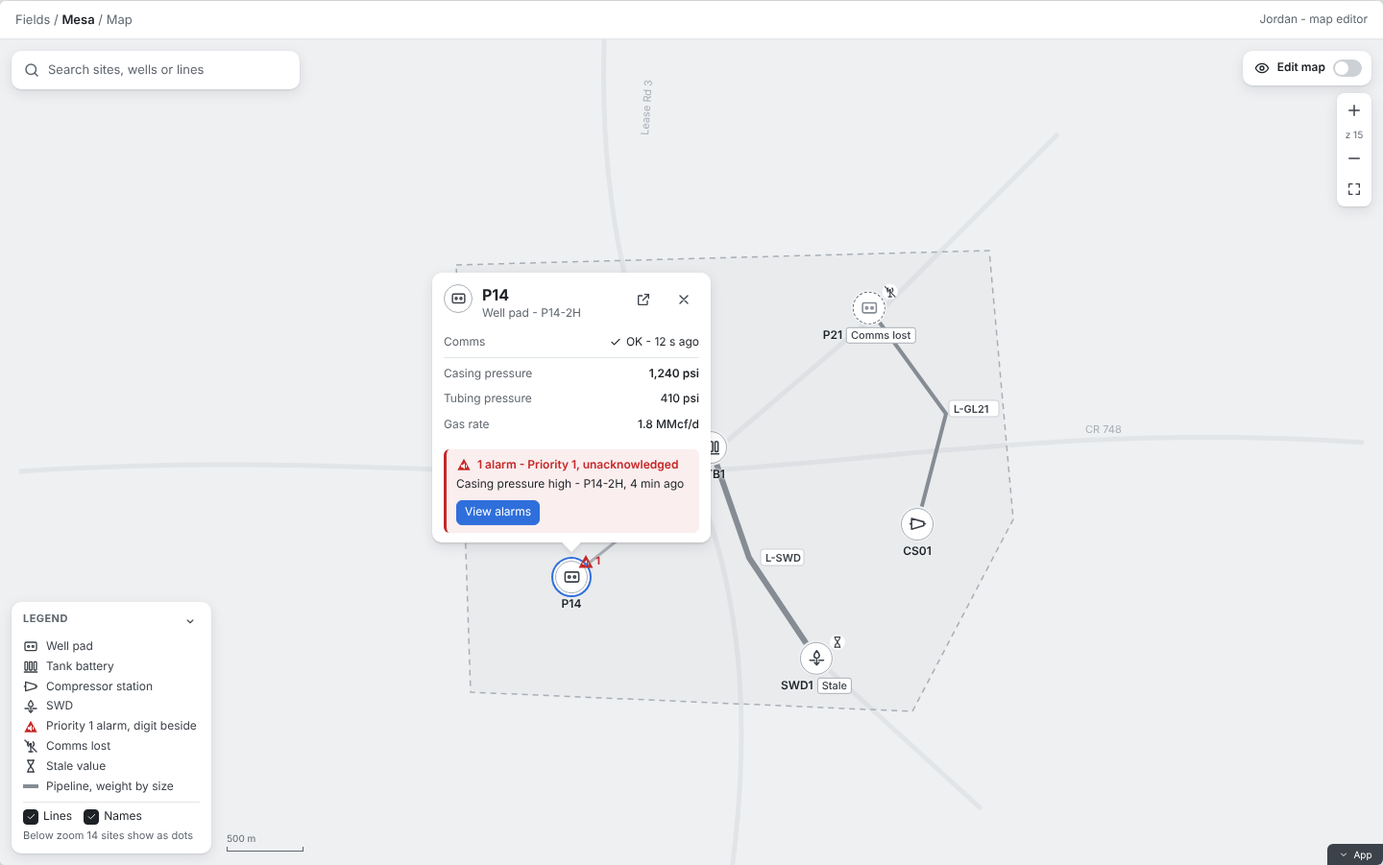
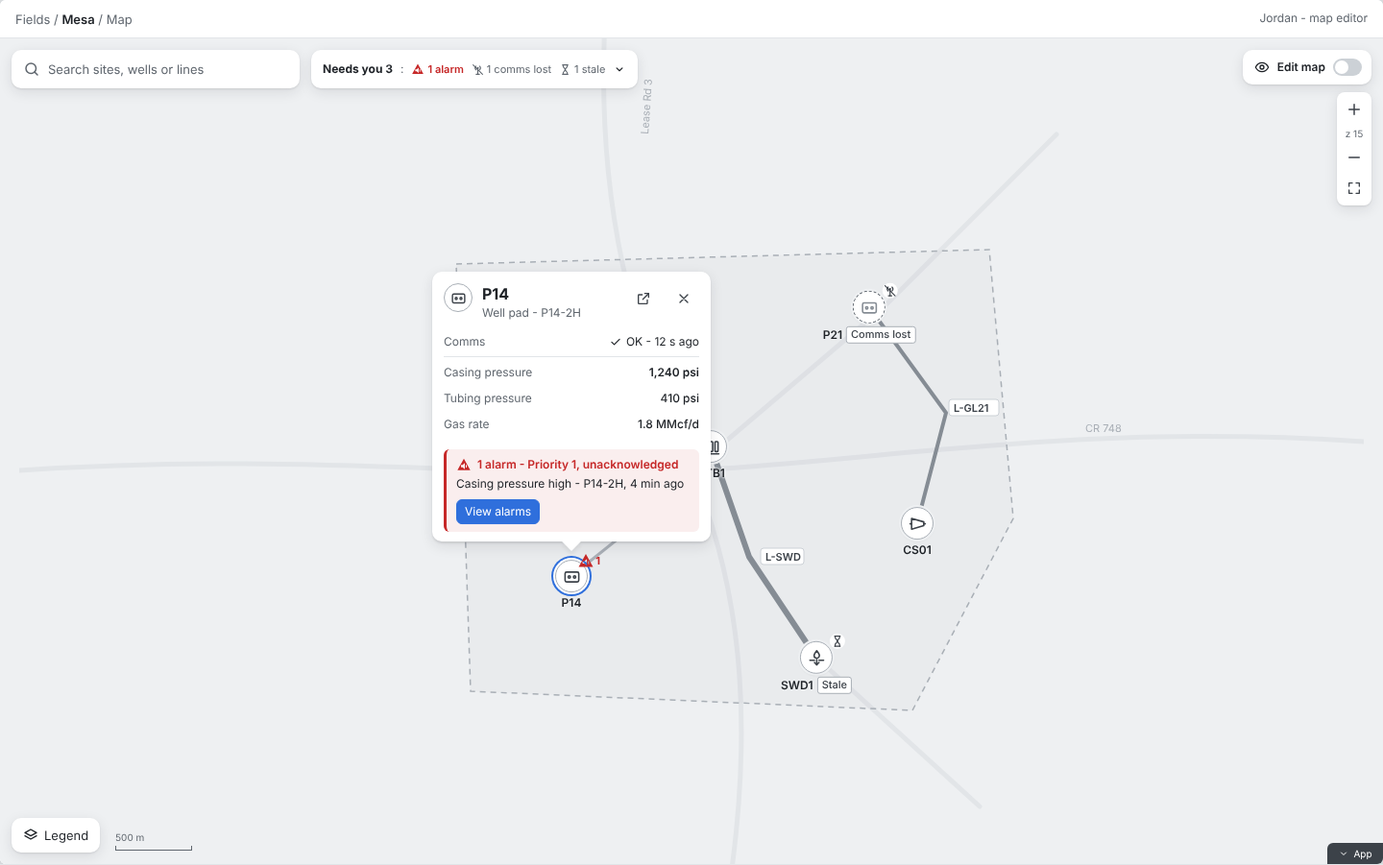
UX workshop: three clickable editor layout directions with notes and screenshots
Claude-Session: https://claude.ai/code/session_01DVAVWyHFvLKQeaRZ7Pw3zR

diff --git a/_bmad-output/initiative-flowmap/ux-map-studio/.working/editor-directions.html b/_bmad-output/initiative-flowmap/ux-map-studio/.working/editor-directions.html
@@ -118,6 +118,12 @@ button{font:inherit;color:inherit;cursor:pointer}
 .grp{padding:8px 8px 4px}
 .grp .gh{display:flex;justify-content:space-between;padding:4px 8px;font-size:11px;font-weight:600;color:var(--neutral-70);text-transform:uppercase;letter-spacing:.04em}
 .row-i{display:flex;align-items:center;gap:10px;width:100%;border:0;background:none;text-align:left;padding:7px 8px;border-radius:6px;color:var(--label)}
+.row-w{display:flex;align-items:center;gap:2px}
+.row-w .row-i{flex:1;min-width:0}
+.cb{width:22px;height:30px;display:flex;align-items:center;justify-content:center;flex:none;cursor:pointer}
+.cb .check{width:14px;height:14px;border-color:var(--neutral-50)}
+.mixed{font-style:italic;color:var(--neutral-70)}
+.boxsel{position:absolute;border:1.5px dashed var(--callToAction);background:var(--cta-tint);pointer-events:none;z-index:6}
 .row-i:hover{background:var(--neutral-20)}
 .row-i.sel{background:var(--cta-tint);box-shadow:inset 3px 0 0 var(--callToAction)}
 .row-i .nm{flex:1;min-width:0;white-space:nowrap;overflow:hidden;text-overflow:ellipsis}
@@ -194,7 +200,7 @@ button{font:inherit;color:inherit;cursor:pointer}
 .sel-like{display:flex;align-items:center;justify-content:space-between;gap:6px;height:30px;padding:0 8px;border:1px solid var(--neutral-40);border-radius:6px;background:var(--neutral-10);font-size:12px}
 .empty{padding:28px 20px;text-align:center;color:var(--neutral-70)}
 .drop{border:1.5px dashed var(--neutral-50);border-radius:8px;padding:22px;text-align:center;color:var(--neutral-70)}
-.scale{position:absolute;left:236px;bottom:14px;font-size:10px;color:var(--neutral-70);display:flex;flex-direction:column;gap:2px;z-index:4}
+.scale{position:absolute;left:120px;bottom:14px;font-size:10px;color:var(--neutral-70);display:flex;flex-direction:column;gap:2px;z-index:4}
 .scale i{display:block;width:80px;height:5px;border:1.5px solid var(--neutral-70);border-top:0}
 </style>
 </head>
@@ -242,6 +248,7 @@ var P = {
   'tag':'<path d="M3 12V4h8l10 10-8 8z"/><circle cx="7.5" cy="8.5" r="1"/>',
   'popout':'<path d="M14 4h6v6"/><path d="M20 4l-9 9"/><path d="M18 14v5a1 1 0 0 1-1 1H5a1 1 0 0 1-1-1V7a1 1 0 0 1 1-1h5"/>',
   'sort':'<path d="M7 4v16M3 16l4 4 4-4"/><path d="M14 6h7M14 12h5M14 18h3"/>',
+  'box':'<rect x="3" y="3" width="15" height="15" rx="1" stroke-dasharray="3 3"/><path d="M14 14l7 7"/><path d="M21 15v6h-6"/>',
   'fit':'<path d="M4 9V4h5M20 9V4h-5M4 15v5h5M20 15v5h-5"/>'
 };
 var F = { /* filled alarm glyphs */
@@ -262,9 +269,9 @@ var KINDS = {
 };
 var KORDER = ['pad','ctb','cs','swd','pipe','lat','geo'];
 var ITEMS = [
-  {id:'P12',kind:'pad',x:520,y:335,asset:'Mesa/P12',ll:'32.2361, -103.8714',kvn:'Casing pressure',kv:'860 psi',kv2:[['Tubing pressure','385 psi'],['Gas rate','1.2 MMcf/d']],wells:'P12-3H',status:'Running',comms:'OK - 9 s ago',chg:'Yesterday 16:20'},
-  {id:'P14',kind:'pad',x:575,y:580,asset:'Mesa/P14',ll:'32.2297, -103.8689',kvn:'Casing pressure',kv:'1,240 psi',kv2:[['Tubing pressure','410 psi'],['Gas rate','1.8 MMcf/d']],wells:'P14-2H',status:'Running',comms:'OK - 12 s ago',alarm:{p:1,text:'Casing pressure high',src:'P14-2H',age:'4 min'}},
-  {id:'P21',kind:'pad',x:885,y:300,asset:'Mesa/P21',ll:'32.2378, -103.8562',kvn:'Casing pressure',kv:'910 psi (last)',kv2:[['Tubing pressure','352 psi (last)']],wells:'P21-1H',status:'Running',lost:true,comms:'Comms lost - last heard 14 min ago'},
+  {id:'P12',kind:'pad',x:520,y:335,asset:'Mesa/P12',ll:'32.2361, -103.8714',kvn:'Casing pressure',kv:'860 psi',kv2:[['Tubing pressure','385 psi'],['Gas rate','1.2 MMcf/d']],wells:'P12-3H',status:'Running',op:'Mesa Operating',comms:'OK - 9 s ago',chg:'Yesterday 16:20'},
+  {id:'P14',kind:'pad',x:575,y:580,asset:'Mesa/P14',ll:'32.2297, -103.8689',kvn:'Casing pressure',kv:'1,240 psi',kv2:[['Tubing pressure','410 psi'],['Gas rate','1.8 MMcf/d']],wells:'P14-2H',status:'Running',op:'Mesa Operating',comms:'OK - 12 s ago',alarm:{p:1,text:'Casing pressure high',src:'P14-2H',age:'4 min'}},
+  {id:'P21',kind:'pad',x:885,y:300,asset:'Mesa/P21',ll:'32.2378, -103.8562',kvn:'Casing pressure',kv:'910 psi (last)',kv2:[['Tubing pressure','352 psi (last)']],wells:'P21-1H',status:'Running',op:'Ridge Partners',lost:true,comms:'Comms lost - last heard 14 min ago'},
   {id:'CTB1',kind:'ctb',x:720,y:445,asset:'Mesa/CTB1',ll:'32.2331, -103.8621',kvn:'Oil tank level',kv:'11.2 ft',kv2:[['Water tank level','8.4 ft'],['Oil today','412 bbl']],status:'Running',comms:'OK - 6 s ago',chg:'Today 09:12'},
   {id:'CS01',kind:'cs',x:935,y:525,asset:'Mesa/CS01',ll:'32.2318, -103.8544',kvn:'Discharge pressure',kv:'1,050 psi',kv2:[['Suction pressure','62 psi'],['Units running','2 of 2']],status:'Running',comms:'OK - 4 s ago',chg:'Oct 22'},
   {id:'SWD1',kind:'swd',x:830,y:665,asset:'Mesa/SWD1',ll:'32.2276, -103.8583',kvn:'Injection rate',kv:'4,120 bbl/d (last)',kv2:[['Injection pressure','1,380 psi']],status:'Running',stale:true,comms:'OK - 7 s ago'},
@@ -277,7 +284,7 @@ var ITEMS = [
 function item(id){for(var i=0;i<ITEMS.length;i++)if(ITEMS[i].id===id)return ITEMS[i];return null;}
 
 /* ---------- state ---------- */
-var S = {dir:'A',w:1440,edit:true,rail:'items',sel:'P14',tab:'details',tool:'select',drawing:false,save:'saved',filter:'all',zoom:15,popup:'P14',panel:true,kindSel:'pad',snap:false,recent:false,sort:'attention',sortOpen:false,drawKind:'pipe',newN:0,conflictOpen:false,toast:false,legend:true};
+var S = {dir:'A',w:1440,edit:true,rail:'items',sel:'P14',tab:'details',tool:'select',drawing:false,save:'saved',filter:'all',zoom:15,popup:'P14',panel:true,kindSel:'pad',multi:[],lastChk:null,bulk20:false,bulkSet:false,snap:false,recent:false,sort:'attention',sortOpen:false,drawKind:'pipe',newN:0,conflictOpen:false,toast:false,legend:false,needs:false};
 var DIRS = {
   A:{name:'Direction A - Docked studio',sum:'Atlist-like: a rail of modes, a docked list and a docked properties panel, the map on the right.',
      why:'Everything an editor needs stays on screen at once: modes on the rail, the field list, and the selected item. It reads as a finished studio rather than tools bolted onto a map, which answers the "cobbled together" complaint most directly. The cost is map width: at 1366 the map keeps about half the component.'},
@@ -331,7 +338,7 @@ var KTOOLS=[['pad','well-pad','Add a well pad'],['ctb','tank-battery','Add a tan
 var GTOOLS=[['point','point','Point - pick the kind after'],['line','line','Line - pick the kind after'],['area','region','Area - pick the kind after']];
 function tb(x){return '<button class="ibtn'+(S.tool===x[0]?' on':'')+'" data-act="tool" data-v="'+x[0]+'" title="'+x[2]+'">'+ic(x[1],18)+'</button>';}
 function toolBtns(vertical){
-  var h=tb(['select','cursor','Select'])+'<span class="div"></span>';
+  var h=tb(['select','cursor','Select'])+tb(['box','box','Box select - hold Alt for a lasso'])+'<span class="div"></span>';
   KTOOLS.forEach(function(x){h+=tb(x);});
   h+='<span class="div"></span>';
   GTOOLS.forEach(function(x){h+=tb(x);});
@@ -343,7 +350,8 @@ function modeLabel(){
   if(S.drawing)return ic(S.tool==='pipe'?'pipeline':'line',16)+(S.tool==='pipe'?'Drawing a pipeline':'Drawing a line');
   var nm={pad:'well pad',ctb:'tank battery',point:'point'}[S.tool];
   if(nm)return ic(S.tool==='point'?'point':KINDS[S.tool].icon,16)+'Add a '+nm+' - click the map, then drag to fine-tune';
-  return {select:ic('cursor',16)+'Select',area:ic('region',16)+'Draw an area - kind picked after'}[S.tool]||'';
+  if(S.multi.length>1&&S.tool==='select')return ic('cursor',16)+(S.bulk20?20:S.multi.length)+' selected - Shift-click to add';
+  return {box:ic('box',16)+'Box select - drag on the map, hold Alt for a lasso',select:ic('cursor',16)+'Select',area:ic('region',16)+'Draw an area - kind picked after'}[S.tool]||'';
 }
 function toolbarTop(extra,off){off=off||0;
   return '<div class="float toolbar" style="left:calc(50% + '+off+'px)">'+toolBtns()+(extra||'')+'</div><div class="float modepill" style="position:absolute;top:60px;left:calc(50% + '+off+'px);transform:translateX(-50%);height:28px;padding:0 12px">'+modeLabel()+'</div>';
@@ -368,7 +376,7 @@ function mapWorld(dx){
   ITEMS.forEach(function(it){
     if(it.kind!=='pipe'&&it.kind!=='lat')return;
     var w=it.kind==='pipe'?(it.size==='6 in'?6:4):3, col=it.kind==='pipe'?'var(--neutral-60)':'var(--neutral-50)';
-    var sel=S.sel===it.id&&S.edit;
+    var sel=(S.sel===it.id||S.multi.indexOf(it.id)>=0)&&S.edit;
     if(sel)h+='<path d="'+it.d+'" stroke="var(--callToAction)" stroke-width="'+(w+6)+'" stroke-opacity=".35" fill="none" stroke-linecap="round" stroke-linejoin="round"/>';
     h+='<path d="'+it.d+'" stroke="'+col+'" stroke-width="'+w+'" fill="none" stroke-linecap="round" stroke-linejoin="round"/>';
     h+='<path d="'+it.d+'" stroke="transparent" stroke-width="16" fill="none" data-act="sel" data-id="'+it.id+'" style="cursor:pointer"/>';
@@ -388,7 +396,7 @@ function mapWorld(dx){
   /* sites */
   ITEMS.forEach(function(it){
     if(!it.x)return;
-    var k=KINDS[it.kind], sel=(S.edit?S.sel:S.popup)===it.id;
+    var k=KINDS[it.kind], sel=(S.edit?(S.sel===it.id||S.multi.indexOf(it.id)>=0):S.popup===it.id);
     var cls='mk'+(it.lost?' lost':'')+(sel?' sel':'')+(it.isNew?' new':'');
     var b='';
     if(it.alarm)b='<span class="badge a1">'+fi('a1u',18)+'1</span>';
@@ -420,11 +428,11 @@ function popup(it){
   return h+'</div>';
 }
 function legend(){
-  if(!S.legend)return '<button class="float btn" style="left:12px;bottom:12px" data-act="legend">'+ic('layers',16)+'Legend</button>';
-  return '<div class="float legend"><h5>Legend <button class="ibtn" style="width:20px;height:20px" data-act="legend" title="Collapse">'+ic('chev',14)+'</button></h5>'+
+  if(!S.legend)return '<button class="float btn" style="left:12px;bottom:12px;height:36px;border:0" data-act="legend">'+ic('layers',16)+'Legend</button>';
+  return '<div class="float legend" style="bottom:56px"><h5>Legend <button class="ibtn" style="width:20px;height:20px" data-act="legend" title="Collapse">'+ic('chev',14)+'</button></h5>'+
    '<div class="li">'+ic('well-pad',16)+'Well pad</div><div class="li">'+ic('tank-battery',16)+'Tank battery</div><div class="li">'+ic('compressor-station',16)+'Compressor station</div><div class="li">'+ic('swd',16)+'SWD</div>'+
-   '<div class="li"><span style="color:var(--error)">'+fi('a1u',16)+'</span>Priority 1 alarm, digit beside</div><div class="li">'+ic('comms-lost',16)+'Comms lost</div><div class="li">'+ic('stale',16)+'Stale value</div>'+
-   '<div class="li"><svg width="16" height="8"><path d="M0 4h16" stroke="var(--neutral-60)" stroke-width="4"/></svg>Pipeline, weight by size</div>'+
+   '<div class="li"><span style="color:var(--error)">'+fi('a1u',16)+'</span>Priority 1 alarm, digit beside</div><div class="li"><span style="color:var(--error)">'+fi('a1a',16)+'</span>Acknowledged</div><div class="li">'+ic('comms-lost',16)+'Comms lost</div><div class="li">'+ic('stale',16)+'Stale value</div>'+
+   '<div class="li"><svg width="16" height="8"><path d="M0 4h16" stroke="var(--neutral-60)" stroke-width="4"/></svg>Pipeline, weight by size</div><div class="li"><svg width="16" height="8"><path d="M0 4h16" stroke="var(--neutral-50)" stroke-width="3"/></svg>Lateral</div><div class="li"><svg width="16" height="8"><path d="M0 4h16" stroke="var(--neutral-60)" stroke-width="3" stroke-dasharray="5 3"/></svg>Dashed: no data or comms lost</div><div class="li"><svg width="16" height="10"><rect x="1" y="1" width="14" height="8" fill="none" stroke="var(--neutral-50)" stroke-dasharray="3 2"/></svg>Geofence</div>'+
    '<div class="tog"><span style="display:flex;gap:5px;align-items:center"><span class="check on">'+ic('check',11)+'</span>Lines</span><span style="display:flex;gap:5px;align-items:center"><span class="check on">'+ic('check',11)+'</span>Names</span></div><div class="tiny muted" style="margin-top:4px">Below zoom 14 sites show as dots</div></div>';
 }
 function drawBar(off){
@@ -439,15 +447,25 @@ function drawBar(off){
 function overlays(off){off=off||0;
   var h='';
   if(S.drawing)h+=drawBar(off);
-  if(S.toast)h+='<div class="toast">'+ic('check',16)+''+S.toastMsg+'<button class="btn sm" data-act="toastx">Undo</button></div>';
+  if(S.toast)h+='<div class="toast">'+ic('check',16)+''+S.toastMsg+'<button class="btn sm" data-act="toastx">'+(S.toastUndo||'Undo')+'</button></div>';
   return h;
 }
 function conflictCard(pos){
   if(S.save!=='conflict'||!S.conflictOpen)return '';
   return '<div class="float conflict" style="'+pos+'"><h4>'+ic('warn',16)+'Not saved - conflict with Sam\'s change</h4><p><b>Sam</b> moved P14 about 40 m north at 10:42, while you were editing it.</p><p>Your change, kept here and not saved: label position Right, Gas rate switched on.</p><div style="display:flex;gap:8px"><button class="btn sm" data-act="resolve">Use Sam\'s version</button><button class="btn sm pri" data-act="resolve">Apply mine on top</button></div></div>';
 }
+var NEEDS=[['P14','a1','Priority 1 alarm, unacknowledged','Casing pressure high - 4 min'],['P21','lost','Comms lost','Last heard 14 min ago'],['SWD1','stale','Stale value','Injection rate - last 22 min ago']];
+function needsYou(){
+  var h='<button class="float" data-act="needs" style="top:12px;left:324px;height:40px;display:flex;align-items:center;gap:8px;padding:0 12px;border:0;font-size:12px"><b>Needs you 3</b><span class="muted">:</span><span class="st a1">'+fi('a1u',14)+'1 alarm</span><span class="st">'+ic('comms-lost',13)+'1 comms lost</span><span class="st">'+ic('stale',13)+'1 stale</span>'+ic('chev',14)+'</button>';
+  if(!S.needs)return h;
+  h+='<div class="float" style="top:58px;left:324px;width:320px;padding:6px"><div class="tiny muted" style="padding:6px 8px">Ranked: alarms by priority, then comms lost, then stale</div>';
+  NEEDS.forEach(function(n,i){var it=item(n[0]);
+    var g=n[1]==='a1'?'<span style="color:var(--error)">'+fi('a1u',18)+'</span>':ic(n[1]==='lost'?'comms-lost':'stale',18);
+    h+='<button class="row-i" data-act="sel" data-id="'+n[0]+'" style="align-items:flex-start"><span style="width:16px;color:var(--neutral-70);font-size:12px">'+(i+1)+'</span>'+g+'<span style="flex:1"><b>'+n[0]+'</b> <span class="muted small">'+KINDS[it.kind].label+'</span><br><span class="small">'+n[2]+'</span><br><span class="tiny muted">'+n[3]+'</span></span></button>';});
+  return h+'</div>';
+}
 function viewMap(){
-  return '<div class="map">'+mapWorld(0)+'<div class="float search">'+ic('search',18)+'Search sites, wells or lines</div>'+legend()+topRight(false)+'<div class="scale"><span>500 m</span><i></i></div></div>';
+  return '<div class="map">'+mapWorld(0)+'<div class="float search">'+ic('search',18)+'Search sites, wells or lines</div>'+needsYou()+legend()+topRight(false)+'<div class="scale"><span>500 m</span><i></i></div></div>';
 }
 
 /* ---------- list, details, kinds, layers, import ---------- */
@@ -465,7 +483,8 @@ var SORTS=[['attention','Needs attention'],['place','Place'],['kind','Kind'],['n
 function needs(it){return !!(it.alarm||it.lost||it.stale||it.unlinked);}
 function rowI(it,indent,extra){
   var k=KINDS[it.kind];
-  return '<button class="row-i'+(S.sel===it.id?' sel':'')+'" style="padding-left:'+(8+indent)+'px" data-act="sel" data-id="'+it.id+'"><span class="ki">'+ic(k.icon,17)+'</span><span class="nm">'+it.id+(extra?' <span class="tiny muted">'+extra+'</span>':'')+'</span>'+stBadge(it)+'</button>';
+  var on=S.multi.indexOf(it.id)>=0;
+  return '<div class="row-w"><span class="cb" data-act="chk" data-id="'+it.id+'" title="Select (Shift-click for a range)" style="margin-left:'+indent+'px"><span class="check'+(on?' on':'')+'">'+(on?ic('check',10):'')+'</span></span><button class="row-i'+(S.sel===it.id||on?' sel':'')+'" style="padding-left:6px" data-act="sel" data-id="'+it.id+'"><span class="ki">'+ic(k.icon,17)+'</span><span class="nm">'+it.id+(extra?' <span class="tiny muted">'+extra+'</span>':'')+'</span>'+stBadge(it)+'</button></div>';
 }
 function pass(it){return S.filter==='all'||S.filter===it.kind;}
 function listBody(){
@@ -482,7 +501,7 @@ function listBody(){
   if(S.sort==='attention'||S.sort==='place'){
     var pl=PLACES.slice(); if(S.sort==='place')pl.sort(function(a,b){return a.site<b.site?-1:1;});
     var natt=ITEMS.filter(needs).length;
-    h+='<div class="grp"><div class="gh"><span>Mesa field</span><span>'+(S.sort==='attention'?natt+' need attention':'11 items')+'</span></div>';
+    h+='<div class="grp"><div class="gh"><span>Mesa field</span><span>'+(S.sort==='attention'?natt+' need attention':'11 items')+'</span></div><div style="padding:0 8px 4px"><button class="btn ghost sm" style="height:22px;padding:0 4px" data-act="selall" data-v="'+(S.filter==='all'?'visible':S.filter)+'">'+(S.filter==='all'?'Select all in Mesa field':'Select all in filter ('+KINDS[S.filter].label+')')+'</button></div>';
     pl.forEach(function(p){
       var site=item(p.site), ons=p.on.map(item);
       if(S.sort==='attention')ons.sort(function(a,b){return needs(b)-needs(a);});
@@ -497,7 +516,7 @@ function listBody(){
   }else if(S.sort==='kind'){
     KORDER.forEach(function(k){
       var rows=ITEMS.filter(function(i){return i.kind===k&&!i.isNew&&pass(i);}); if(!rows.length)return;
-      h+='<div class="grp"><div class="gh"><span>'+KINDS[k].label+'</span><span>'+rows.length+'</span></div>';
+      h+='<div class="grp"><div class="gh"><span>'+KINDS[k].label+' '+rows.length+'</span><button class="btn ghost sm" style="height:18px;padding:0 4px;text-transform:none;letter-spacing:0" data-act="selall" data-v="'+k+'">Select all in group</button></div>';
       rows.forEach(function(it){h+=rowI(it,0);});h+='</div>';
     });
   }else{
@@ -553,6 +572,46 @@ function detailsBody(it){
     h+='<div class="sect"><h4>Popup parts <span class="tag">From kind</span></h4>'+['Name and kind','Comms','Key values','Alarm summary','Buttons'].map(function(p){return '<div class="kv" style="justify-content:flex-start;gap:8px"><span class="check on">'+ic('check',11)+'</span>'+p+'</div>';}).join('')+'</div>';
   }
   return h;
+}
+function bulkActive(){return S.bulk20||S.multi.length>1;}
+function bulkHead(back){
+  var ids=S.multi, kinds={}; ids.forEach(function(i){kinds[item(i).kind]=1;});
+  var one=Object.keys(kinds).length===1?Object.keys(kinds)[0]:null; if(S.bulk20)one='pad';
+  var n=S.bulk20?20:ids.length;
+  var title=one?n+' '+KINDS[one].label.toLowerCase()+(one==='swd'?'s':'s')+' selected':n+' items selected';
+  return '<div class="ph">'+(back?'<button class="btn ghost sm" style="margin:-4px 0 6px -8px" data-act="back">'+ic('back',16)+'All items</button>':'')+'<div class="row"><span>'+ic(one?KINDS[one].icon:'box',22)+'</span><div style="flex:1;min-width:0"><h3>'+title+'</h3><div class="small muted">Shared fields only - a change applies to all '+n+'</div></div><button class="btn sm ghost" data-act="clearsel">Clear</button></div>'+
+   '<div class="tabs">'+['details','style','link'].map(function(t){return '<button class="'+(S.tab===t?'on':'')+'" data-act="tab" data-v="'+t+'">'+t.charAt(0).toUpperCase()+t.slice(1)+'</button>';}).join('')+'</div></div>';
+}
+function mixedOr(vals){var u=vals.filter(function(v,i){return vals.indexOf(v)===i;});return u.length===1?u[0]:null;}
+function bulkBody(){
+  var ids=S.multi, its=ids.map(item), n=S.bulk20?20:ids.length, h='';
+  var allPads=S.bulk20||its.every(function(i){return i.kind==='pad';});
+  if(S.bulk20)h+='<div class="sect"><div class="note">Example at scale: 20 well pads picked with the box tool on a larger field. The Mesa demo has 3.</div></div>';
+  if(S.tab==='details'){
+    h+='<div class="sect">';
+    if(allPads){
+      var op=S.bulkSet?'Mesa Operating':(S.bulk20?null:mixedOr(its.map(function(i){return i.op;})));
+      h+='<div class="field"><label>Kind</label><div class="sel-like">'+ic('well-pad',15)+'Well pad<span style="margin-left:auto">'+ic('chev',14)+'</span></div></div>';
+      h+='<div class="field"><label>Operator</label><button class="sel-like" style="width:100%" data-act="bulkset">'+(op?'<span>'+op+'</span>':'<span class="mixed">Mixed - '+(S.bulk20?'3 values':'2 values')+'</span>')+ic('chev',14)+'</button>'+(op&&S.bulkSet?'<div class="tiny muted" style="margin-top:4px">Set on all '+n+'</div>':'<div class="tiny muted" style="margin-top:4px">Pick a value to set it on all '+n+'</div>')+'</div>';
+      h+='<div class="field"><label>Route</label><div class="sel-like"><span>'+(S.bulk20?'Route 3':'Route 3')+'</span>'+ic('chev',14)+'</div></div>';
+      h+='<div class="field" style="margin:0"><label>Access road note</label><div class="input"><span class="mixed">Mixed</span></div></div>';
+    }else{
+      h+='<div class="field" style="margin:0"><label>Notes</label><div class="input"><span class="mixed">Mixed</span></div></div>';
+    }
+    h+='</div><div class="sect tiny muted">Name, location and asset link belong to one item and are not shown. Geometry is never bulk edited.</div>';
+  }else if(S.tab==='style'){
+    h+='<div class="sect"><h4>Size</h4><div class="presets"><span>Small</span><span class="on">Standard</span><span>Large</span></div></div>';
+    h+='<div class="sect"><h4>Label position <span class="tag">Mixed</span></h4><div class="presets"><span>Below</span><span>Right</span></div><div class="tiny muted" style="margin-top:6px">1 has an override. Pick one to set it on all, or Reset all to kind.</div></div>';
+  }else{
+    h+='<div class="sect"><h4>Page link <span class="tag">From kind</span></h4><div class="input val small">/pad/{asset.id}</div></div><div class="sect"><h4>Asset</h4><div class="note">Asset links are per item. Use Import to match many by name.</div></div>';
+  }
+  return h;
+}
+function bulkFoot(){var n=S.bulk20?20:S.multi.length;return '<div class="pfoot"><span class="small muted" style="flex:1">One change, one undo step</span><button class="ibtn" title="Delete '+n+' items">'+ic('trash',16)+'</button></div>';}
+function propsFor(back,close){
+  if(bulkActive())return bulkHead(back)+'<div class="pbody">'+bulkBody()+'</div>'+bulkFoot();
+  var it=item(S.sel); if(!it)return '';
+  return detailsHead(it,back,close)+'<div class="pbody">'+detailsBody(it)+'</div>'+detailsFoot();
 }
 function detailsFoot(){return '<div class="pfoot"><button class="btn sm">'+ic('copy',14)+'Add another like this</button><button class="ibtn" style="margin-left:auto" title="Delete (no confirmation, Ctrl+Z undoes)">'+ic('trash',16)+'</button></div>';}
 
@@ -611,7 +670,7 @@ function dirA(){
   var list='', props='';
   var head='<div class="ph"><div class="row"><h3 style="flex:1">Mesa map</h3>'+saveCluster()+'</div></div>';
   if(S.rail==='items'){list=head+'<div class="pbody">'+listBody()+'</div>'+listFoot();
-    var it=item(S.sel); if(it)props=detailsHead(it,false,true)+'<div class="pbody">'+detailsBody(it)+'</div>'+detailsFoot();}
+    props=propsFor(false,true);}
   else if(S.rail==='kinds'){list=head+'<div class="pbody">'+kindsList()+'</div>'; props=kindHead(false)+'<div class="pbody">'+kindBody()+'</div>';}
   else if(S.rail==='layers'){list=head+'<div class="pbody">'+layersBody()+'</div>';}
   else {list=head+'<div class="pbody">'+importBody()+'</div>';}
@@ -623,7 +682,7 @@ function dirA(){
 function dirB(){
   var h='<div style="position:relative;display:flex;flex:1;min-width:0">'+railEl(true);
   var open=S.panel&&S.rail!=='view', pane='';
-  if(S.rail==='items'){var it=S.sel&&item(S.sel); pane=it?detailsHead(it,true,true)+'<div class="pbody">'+detailsBody(it)+'</div>'+detailsFoot():titled('Items',listBody(),listFoot(),'<button class="ibtn" data-act="close" title="Close">'+ic('x',18)+'</button>');}
+  if(S.rail==='items'){var it=S.sel&&item(S.sel); pane=(S.bulkOpen&&bulkActive())||(it&&!bulkActive())?propsFor(true,true):titled('Items',listBody(),bulkActive()?'<div class="pfoot"><b style="flex:1">'+(S.bulk20?20:S.multi.length)+' selected</b><button class="btn sm ghost" data-act="clearsel">Clear</button><button class="btn sm pri" data-act="bulkopen">Edit together</button></div>':listFoot(),'<button class="ibtn" data-act="close" title="Close">'+ic('x',18)+'</button>');}
   else if(S.rail==='kinds'){pane=S.kindSel?kindHead(true)+'<div class="pbody">'+kindBody()+'</div>':titled('Kinds',kindsList());}
   else if(S.rail==='layers')pane=titled('Layers',layersBody(),'','<button class="ibtn" data-act="close">'+ic('x',18)+'</button>');
   else pane=titled('Import and export',importBody(),'','<button class="ibtn" data-act="close">'+ic('x',18)+'</button>');
@@ -640,7 +699,7 @@ function dirC(){
   left+='<div class="pbody">'+body+'</div>'+(S.rail==='items'?listFoot():'');
   var right;
   if(S.rail==='kinds')right=kindHead(false)+'<div class="pbody">'+kindBody()+'</div>';
-  else {var it=item(S.sel); right=it?detailsHead(it,false,false)+'<div class="pbody">'+detailsBody(it)+'</div>'+detailsFoot():
+  else {var it=item(S.sel); right=(it||bulkActive())?propsFor(false,false):
     '<div class="ph"><h3>Mesa</h3><div class="small muted">Nothing selected</div></div><div class="pbody"><div class="sect"><h4>Field</h4><div class="kv"><span class="k">Items</span><span>11</span></div><div class="kv"><span class="k">Unlinked</span><span>1 - P12 lateral</span></div><div class="kv"><span class="k">In alarm</span><span class="st a1">'+fi('a1u',14)+'1 - P14</span></div><div class="kv"><span class="k">Comms lost</span><span>1 - P21</span></div><div class="kv"><span class="k">Stale</span><span>1 - SWD1</span></div></div><div class="empty">Select an item on the map or in the list to edit it.</div></div>';}
   return '<div class="panel" style="width:'+lw+'px">'+left+'</div><div class="map">'+mapWorld(0)+strip()+topRight(false)+overlays()+conflictCard('top:60px;left:70px')+recentPanel('top:8px;left:8px')+'</div><div class="panel right" style="width:'+pw+'px">'+right+'</div>';
 }
@@ -652,9 +711,10 @@ function render(){
   sw+='<span class="seg">'+[1440,1366].map(function(w){return '<button class="'+(S.w===w?'on':'')+'" data-act="w" data-v="'+w+'">'+w+'</button>';}).join('')+'</span>';
   sw+='<span class="seg">'+[['0','View mode'],['1','Edit mode']].map(function(x){return '<button class="'+((S.edit?'1':'0')===x[0]?'on':'')+'" data-act="setedit" data-v="'+x[0]+'">'+x[1]+'</button>';}).join('')+'</span>';
   sw+='<span class="lbl">Save status demo</span><span class="seg">'+[['saved','Saved'],['saving','Saving...'],['conflict','Conflict']].map(function(x){return '<button class="'+(S.save===x[0]?'on':'')+'" data-act="setsave" data-v="'+x[0]+'">'+x[1]+'</button>';}).join('')+'</span>';
+  sw+='<span class="seg"><button class="'+(S.bulk20?'on':'')+'" data-act="bulk20">Bulk example: 20 pads</button></span>';
   document.getElementById('sw').innerHTML=sw;
   var d=DIRS[S.dir];
-  document.getElementById('rat').innerHTML='<h2>'+d.name+'</h2><p>'+d.why+'</p><div class="hint">Try: the Edit switch on the map; Sort by in the list; a site or line on the map or in the list; the Details, Style and Link tabs; the Pipeline or Line tool (Snap is off by default, the demo turns it on; snapping hint and Finish or Cancel); a well pad tool then click the map and drag the new pin; Kinds for the Well pad setup; zoom out below 14 for dots; Saved to open Recent changes with Revert; the demo buttons above for Saving... and the conflict.</div>';
+  document.getElementById('rat').innerHTML='<h2>'+d.name+'</h2><p>'+d.why+'</p><div class="hint">Try: the Edit switch on the map; Sort by in the list; list checkboxes (Shift-click for a range, Select all) or the box tool on the map for a bulk form; a site or line on the map or in the list; the Details, Style and Link tabs; the Pipeline or Line tool (Snap is off by default, the demo turns it on; snapping hint and Finish or Cancel); a well pad tool then click the map and drag the new pin; Kinds for the Well pad setup; zoom out below 14 for dots; Saved to open Recent changes with Revert; the demo buttons above for Saving... and the conflict.</div>';
   var fr=document.getElementById('frame');
   fr.style.width=S.w+'px'; fr.style.height=(S.w===1440?900:768)+'px';
   var comp=S.edit?(S.dir==='A'?dirA():S.dir==='B'?dirB():dirC()):viewMap();
@@ -672,18 +732,27 @@ document.addEventListener('click',function(e){
     case 'setedit':S.edit=v==='1';if(S.edit&&S.rail==='view')S.rail='items';break;
     case 'setsave':S.save=v;S.conflictOpen=v==='conflict';S.recent=false;break;
     case 'rail':if(v==='view'){S.edit=false;S.rail='items';}else{S.rail=v;S.panel=true;if(v==='kinds'&&S.dir==='B')S.kindSel=null;}S.drawing=false;break;
-    case 'sel':if(S.drawing)return; if(S.edit){S.sel=id;S.rail='items';S.panel=true;}else{S.popup=item(id)&&item(id).x?id:null;}break;
+    case 'sel':if(S.drawing)return; if(S.edit){if(e.shiftKey){if(S.multi.length===0&&S.sel)S.multi=[S.sel];if(S.multi.indexOf(id)<0)S.multi.push(id);S.bulkOpen=true;break;}S.multi=[];S.bulk20=false;S.bulkOpen=false;S.sel=id;S.rail='items';S.panel=true;}else{S.popup=item(id)&&item(id).x?id:null;S.needs=false;}break;
     case 'close':if(S.dir==='B'&&S.rail==='items'&&!S.sel){S.panel=false;}else if(S.dir==='B'&&S.rail!=='items'){S.panel=false;}else S.sel=null;break;
-    case 'back':if(S.rail==='kinds')S.kindSel=null;else S.sel=null;break;
+    case 'back':if(S.rail==='kinds')S.kindSel=null;else if(S.bulkOpen)S.bulkOpen=false;else S.sel=null;break;
     case 'open':S.panel=true;break;
     case 'tab':S.tab=v;break;
     case 'kind':S.kindSel=v;break;
     case 'filter':S.filter=v;break;
+    case 'chk':(function(){var ord=[].map.call(document.querySelectorAll('[data-act=chk]'),function(n){return n.getAttribute('data-id');});
+      if(e.shiftKey&&S.lastChk){var a=ord.indexOf(S.lastChk),b=ord.indexOf(id);ord.slice(Math.min(a,b),Math.max(a,b)+1).forEach(function(x){if(S.multi.indexOf(x)<0)S.multi.push(x);});}
+      else{var i=S.multi.indexOf(id);if(i>=0)S.multi.splice(i,1);else S.multi.push(id);}
+      S.lastChk=id;S.bulk20=false;S.bulkSet=false;S.bulkOpen=false;if(S.multi.length===1)S.sel=S.multi[0];})();break;
+    case 'selall':S.multi=v==='visible'?[].map.call(document.querySelectorAll('[data-act=chk]'),function(n){return n.getAttribute('data-id');}):ITEMS.filter(function(i){return i.kind===v&&!i.isNew;}).map(function(i){return i.id;});S.bulk20=false;S.bulkSet=false;break;
+    case 'clearsel':S.multi=[];S.bulk20=false;S.bulkSet=false;S.bulkOpen=false;break;
+    case 'bulkopen':S.bulkOpen=true;break;
+    case 'bulkset':S.bulkSet=true;S.toast=true;S.toastMsg='Operator set on '+(S.bulk20?20:S.multi.length)+' well pads';S.toastUndo='Undo: edit '+(S.bulk20?20:S.multi.length)+' pads';S.save='saving';clearTimeout(timer);timer=setTimeout(function(){S.save='saved';render();},900);break;
+    case 'bulk20':S.bulk20=!S.bulk20;S.multi=S.bulk20?['P12','P14','P21']:[];S.bulkSet=false;S.bulkOpen=true;S.rail='items';S.edit=true;S.panel=true;S.tab='details';break;
     case 'sortopen':S.sortOpen=!S.sortOpen;break;
     case 'sort':S.sort=v;S.sortOpen=false;break;
     case 'tool':S.tool=v;S.drawing=v==='line'||v==='pipe';if(S.drawing)S.snap=true;S.toast=false;break;
     case 'dcancel':S.drawing=false;S.tool='select';break;
-    case 'dfinish':S.toastMsg=S.tool==='pipe'?'Pipeline "L-3 (new)" added and saved':'Line added and saved - pick its kind in Details';S.drawing=false;S.tool='select';S.save='saving';S.toast=true;clearTimeout(timer);timer=setTimeout(function(){S.save='saved';render();},1200);break;
+    case 'dfinish':S.toastUndo='Undo';S.toastMsg=S.tool==='pipe'?'Pipeline "L-3 (new)" added and saved':'Line added and saved - pick its kind in Details';S.drawing=false;S.tool='select';S.save='saving';S.toast=true;clearTimeout(timer);timer=setTimeout(function(){S.save='saved';render();},1200);break;
     case 'toastx':S.toast=false;break;
     case 'save':S.save=S.save==='saved'?'saving':'conflict';S.conflictOpen=S.save==='conflict';break;
     case 'snap':S.snap=!S.snap;break;
@@ -694,6 +763,7 @@ document.addEventListener('click',function(e){
     case 'zout':S.zoom=Math.max(10,S.zoom-1);break;
     case 'pclose':S.popup=null;break;
     case 'legend':S.legend=!S.legend;break;
+    case 'needs':S.needs=!S.needs;break;
     default:return;
   }
   render();
@@ -707,6 +777,18 @@ function place(m,e){
   ITEMS.push(it); S.sel=it.id; S.tab='details'; S.rail='items'; S.panel=true; S.tool='select'; S.save='saving';
   clearTimeout(timer);timer=setTimeout(function(){S.save='saved';render();},900); render();
 }
+var box=null;
+document.addEventListener('mousedown',function(e){
+  if(!S.edit||S.tool!=='box')return; var m=e.target.closest('.map'); if(!m||e.target.closest('.float'))return;
+  var w=m.querySelector('.world'), r=w.getBoundingClientRect(); box={w:w,r:r,x:e.clientX-r.left,y:e.clientY-r.top,el:document.createElement('div')};
+  box.el.className='boxsel'; w.appendChild(box.el); e.preventDefault();
+});
+document.addEventListener('mousemove',function(e){if(!box)return;var x=e.clientX-box.r.left,y=e.clientY-box.r.top;
+  box.x2=x;box.y2=y;var st=box.el.style;st.left=Math.min(x,box.x)+'px';st.top=Math.min(y,box.y)+'px';st.width=Math.abs(x-box.x)+'px';st.height=Math.abs(y-box.y)+'px';});
+document.addEventListener('mouseup',function(){if(!box)return;var b=box;box=null;if(b.x2==null){b.el.remove();return;}
+  var x1=Math.min(b.x,b.x2),x2=Math.max(b.x,b.x2),y1=Math.min(b.y,b.y2),y2=Math.max(b.y,b.y2);
+  S.multi=ITEMS.filter(function(i){var px=i.x||i.mid[0],py=i.y||i.mid[1];return i.kind!=='geo'&&px>=x1&&px<=x2&&py>=y1&&py<=y2;}).map(function(i){return i.id;});
+  S.bulk20=false;S.bulkSet=false;S.bulkOpen=true;S.tool='select';if(S.multi.length===1){S.sel=S.multi[0];S.multi=[];}S.rail='items';S.panel=true;render();});
 var drag=null;
 document.addEventListener('mousedown',function(e){var b=e.target.closest('.mk.new');if(!b||!S.edit)return;drag={it:item(b.getAttribute('data-id')),el:b,x:e.clientX,y:e.clientY,ox:0,oy:0};e.preventDefault();});
 document.addEventListener('mousemove',function(e){if(!drag)return;var dx=e.clientX-drag.x,dy=e.clientY-drag.y;drag.el.style.transform='translate(calc(-50% + '+dx+'px),calc(-50% + '+dy+'px))';drag.dx=dx;drag.dy=dy;});

diff --git a/_bmad-output/initiative-flowmap/ux-map-studio/.working/editor-directions-notes.md b/_bmad-output/initiative-flowmap/ux-map-studio/.working/editor-directions-notes.md
@@ -1,0 +1,76 @@
+# Map Studio editor - layout direction notes
+
+Working notes for the UX workshop, 2026-10-26. Companion to `editor-directions.html` (one file, switcher for Direction A / B / C, 1440 / 1366, view or edit mode, save status demo, bulk example). The visual identity is fixed by the theme tokens; the directions vary layout and density only.
+
+Shared by all three (owner decisions applied in every direction):
+
+- View mode is the same clean operator map: search top-left, "Needs you 3: 1 alarm, 1 comms lost, 1 stale" beside it (opens a ranked list), Legend as a button bottom-left that opens on request, Edit switch (editors only) and zoom top-right, popup with comms and data age, 2 to 3 key values, then alarms with "View alarms", page link as a pop-out icon in the popup header. Bottom-right stays clear for the Perspective App Bar toggle.
+- Edit mode: draw toolbar with Select, Box select (Alt for lasso), kind buttons (Well pad, Tank battery, Pipeline), generic Point, Line, Area (kind picked in the form after) and a Snap toggle, off by default. Points: click the map, then drag to fine-tune; typed latitude and longitude in Details is the backup, no address search.
+- Undo and Redo sit next to the save status (Saved, Saving..., "Not saved - conflict with Sam's change" with the other change shown). The save status opens Recent changes (who, what, when, Revert per change). A bulk change is one undo step.
+- Item list groups by place (Mesa field, then site, then what is on it: wells, laterals, lines), items needing attention first, with Sort by (Needs attention, Place, Kind, Name, Last changed), kind filter chips, checkboxes with Shift-click range and "Select all in Mesa field / in filter / in group".
+- Several items selected: the properties panel becomes a bulk form with shared fields only, "Mixed" where values differ, a change applies to all. Example: 20 well pads, Operator "Mixed", toast "Undo: edit 20 pads".
+- Kinds: Well pad setup with icon, Style rule (States on Status: Running = Normal, Shut in = Dimmed dashed, Testing = Attention, live preview of each), key values with on/off and the icon value, popup parts.
+
+Map width figures are the component minus docked panels, inside the Perspective page (the host header is not counted).
+
+## Direction A - Docked studio
+
+Rail of modes (View, Items, Kinds, Layers, Import), a docked list panel, a docked properties panel that appears on select, the map on the right, draw toolbar floating top-centre.
+
+**Does well**
+- Most complete and "finished" look. List, selection and map are all on screen together, the closest answer to "cobbled together, not connected".
+- Kinds mode reads naturally: kinds list in the list panel, kind setup in the properties panel, map still visible as the preview context.
+- Bulk work is comfortable: checkboxes in the list and the bulk form side by side.
+- Familiar to the owner (Atlist), who found this layout fine on a laptop.
+
+**Costs**
+- Screen space at 1366: map is about 718 px of 1366 (53 %) with an item selected, 1038 px with nothing selected. At 1440: 748 px. The top-centre toolbar and the top-right Edit switch fit with about 30 px to spare at 1366; nothing more can go on that row.
+- Clicks to edit an item: 1 once in edit mode (click on map or in list opens properties); +1 for the Edit switch unless the integrator opens the component straight into edit mode. A tab is one more click.
+- Opening and closing the properties panel shifts the map area by 320 to 340 px (the mock pans the map to compensate); that movement can feel jumpy.
+- Phone (390 px, view mode): view mode is unaffected (shared). Edit mode has no phone form: three columns cannot collapse; the phone editing role would need a separate bottom-sheet layout anyway.
+
+## Direction B - Map first
+
+Map fills the component; slim rail; one panel slides in from the left for the list, then item details with a back arrow; save status, Undo and Redo ride in the top-centre toolbar.
+
+**Does well**
+- Edit mode looks like the operator map with tools switched on, so view and edit feel like one product.
+- Most map at 1366: 1310 px with the panel closed, about 950 px with it open (the toolbar and draw bar re-centre on the visible part).
+- One place to look for everything that is not the map.
+- Best phone path: the slide panel is the same idea as the phone bottom sheet (FR-28), so the phone editing layout is a re-flow, not a new design.
+
+**Costs**
+- List and details are never visible together. Going to the next item from the list costs a back click (map clicks go straight to details, 1 click).
+- Clicks to edit: 1 from the map; 2 from the list when the panel is closed (rail Items, then the row); +1 back to return to the list.
+- Bulk needs an extra step: tick items, then "Edit together" opens the bulk form in the same panel, so ticking and the form are not side by side.
+- The panel overlays the map, so items under it are hidden until it pans (the mock pans 180 px).
+- The top toolbar carries the most (tools, Snap, Undo, Redo, save status): at 1366 with the panel open it nearly fills the visible map width when the conflict text shows.
+- Phone (390 px, view mode): unaffected (shared); see above, the strongest editing story.
+
+## Direction C - Inspector
+
+List docked left (tabs Items, Kinds, Layers, Import instead of a rail), map centre, inspector docked right and always present (field summary when nothing is selected), draw tools in a vertical strip on the map's left edge.
+
+**Does well**
+- Fixed homes: what exists (left), where (centre), what it is (right). Nothing appears, slides or covers the map, and the map never shifts.
+- Empty inspector earns its place: a field summary (11 items, 1 unlinked, 1 in alarm, 1 comms lost, 1 stale).
+- Vertical tool strip leaves the top of the map free; the mode pill sits beside the strip.
+- Box select and the bulk form work best here: drag on the map, the form is already open on the right.
+
+**Costs**
+- Screen space at 1366: map about 810 px of 1366 (59 %) at all times, even with nothing selected. At 1440: about 838 px. Better than A with a selection, worse than A or B with none.
+- Clicks to edit an item: 1 (map or list), same as A, no panel to open or close.
+- Least Atlist-like; reads more like a design tool, which may feel technical to admins who "might never touch a CSV".
+- The inspector footer had to be padded so Delete stays clear of the App Bar toggle in the bottom-right corner; anything docked right has that constraint.
+- Phone (390 px, view mode): unaffected (shared). Edit mode has to drop both docked panels at 390 px, so it ends up as Direction B on a phone.
+
+## Phone, view mode, all directions (described, not mocked)
+
+At 390 px the view map is the same in all three: search full width at the top, the "Needs you" summary as a chip row under it, zoom top-right at 44 px targets, the Legend button bottom-left, popups as a bottom sheet with a visible close (FR-4) that stops above the App Bar toggle. The Edit switch only shows to the phone-editing role and, below 768 px, offers moving points and editing properties only (FR-27, FR-28).
+
+## Points to settle in the workshop
+
+- The bulk example says "20 well pads" (owner wording); the Mesa demo field has 3, so the mock labels it "Example at scale". Recent changes uses the real Mesa count ("Edited 3 well pads in one change").
+- "Operator" and "Route" are illustrative well pad form fields for the bulk example, not decided fields.
+- UI chrome glyphs (eye, list, layers, undo, box select, pop-out, magnet) are stand-ins drawn on the icon grid; the approved sprite has no UI icons yet.
+- Attention (Testing) is shown with no hue: a heavier outline plus the word, following the template's `--st-attention`.
